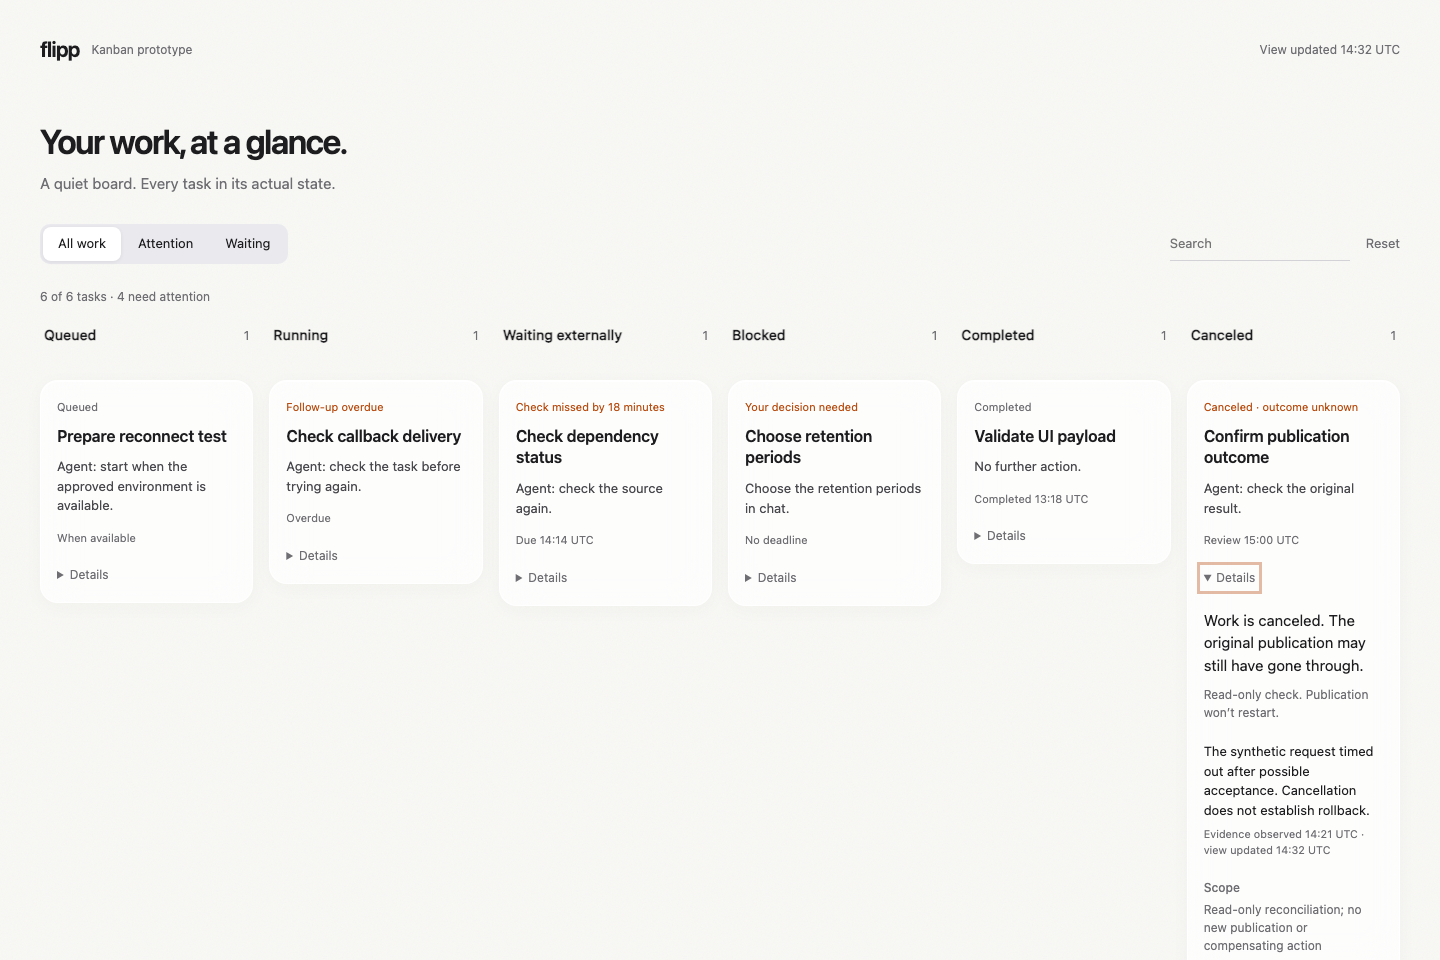
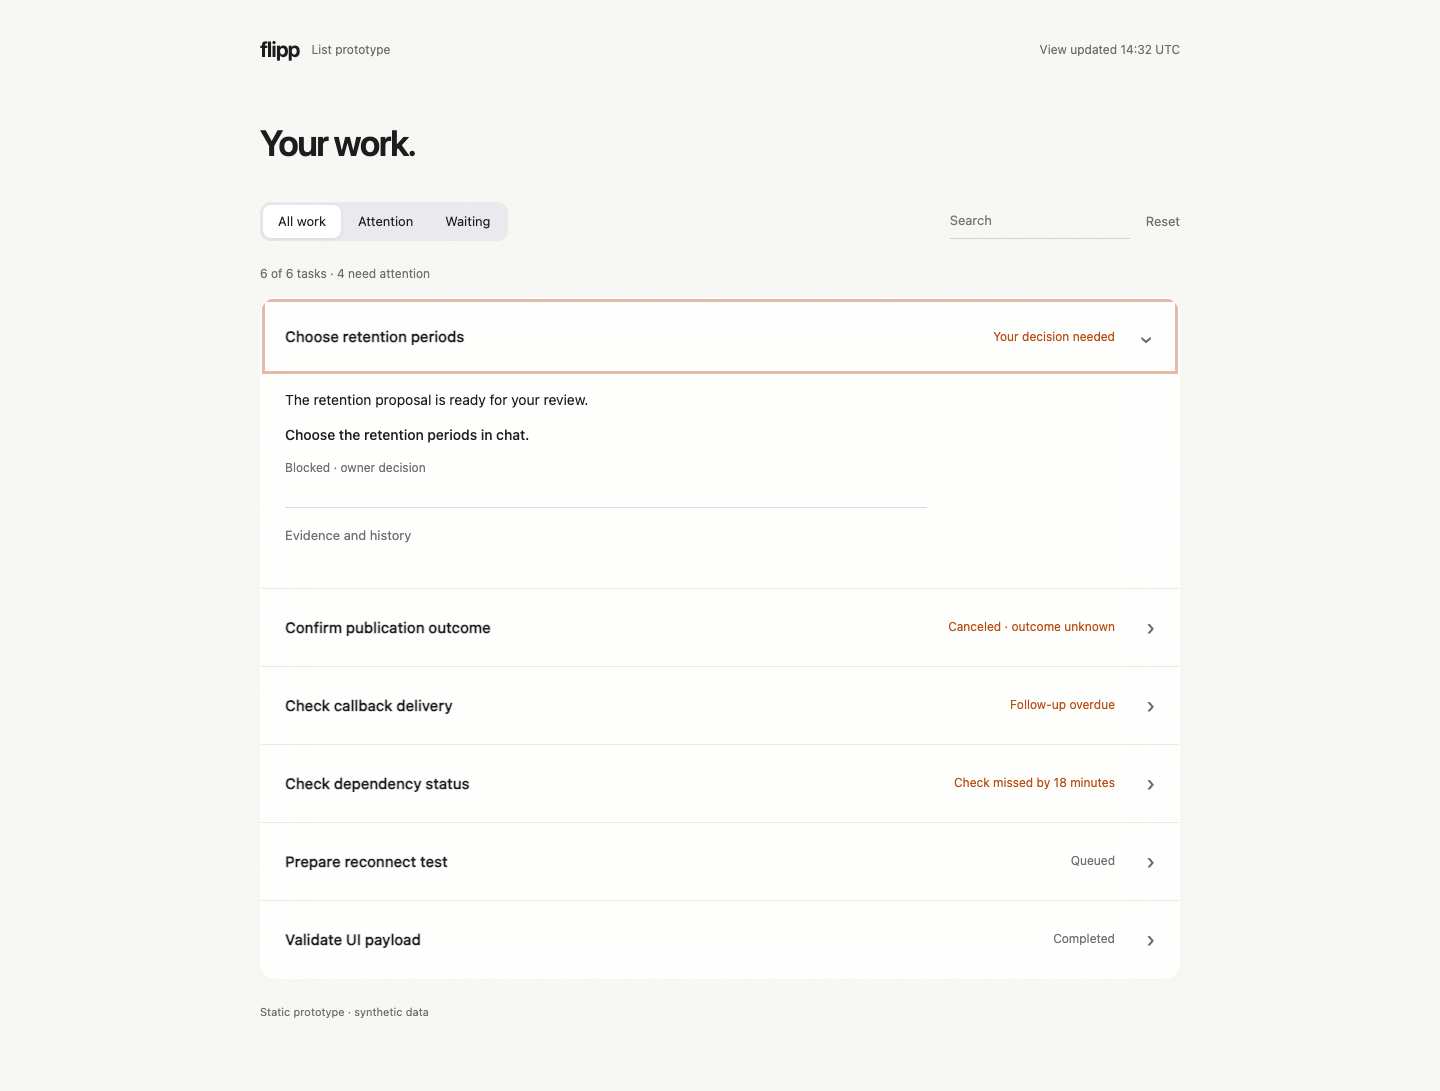
Make the human work view a compact expandable list

diff --git a/mockups/app.js b/mockups/app.js
@@ -31,16 +31,9 @@ function renderDetail(task){
 function render(){
  const visible=visibleTasks();if(!visible.some(t=>t.id===selectedId))selectedId=visible[0]?.id;
   if(document.body.dataset.variant==="a"){
-    const states=["Queued","Running","Waiting externally","Blocked","Completed","Canceled"];
-    const slug=state=>state.toLowerCase().replaceAll(" ","-");
-    const card=task=>{
+    list.innerHTML=visible.map(task=>{
       const c=copy[task.id];
-      const times={task_synth_104:"Overdue",task_synth_103:"No deadline",task_synth_101:"Due 14:14",task_synth_107:"Review 15:00",task_synth_105:"When available",task_synth_099:"Completed 13:18"};
-      return `<li class="action-card"><div class="card-top"><span class="task-status ${c.lens==="attention"?"attention":""}">${escape(c.status)}</span></div><h3>${escape(c.title)}</h3><p class="card-next">${escape(c.next)}</p><p class="card-time">${times[task.id]}${times[task.id].match(/[0-9]/)?" UTC":""}</p><details class="card-disclosure"><summary>Details<span class="sr-only"> for ${escape(c.title)}</span></summary><p class="card-update">${escape(c.update)}</p><p class="human-note">${escape(c.note)}</p><div class="evidence">${escape(task.evidence)}<small>Evidence observed ${escape(task.observedAt)} · view updated 14:32 UTC</small></div><p class="card-scope"><strong>Scope</strong> ${escape(task.scope)}</p><ol class="history" aria-label="Task history">${task.chronology.map(entry=>`<li><time>${escape(entry[0])}</time><div>${escape(entry[1])}<small>${escape(entry[2])}</small></div></li>`).join("")}</ol></details></li>`;
-    };
-    list.innerHTML=states.map(state=>{
-      const members=visible.filter(task=>task.state===state);
-      return `<section class="board-column" id="column-${slug(state)}" aria-labelledby="heading-${slug(state)}"><div class="column-heading"><h2 id="heading-${slug(state)}" tabindex="-1">${state}</h2><span aria-label="${members.length} tasks">${members.length}</span></div><ol class="column-cards">${members.map(card).join("")}</ol>${members.length?"":'<p class="column-empty">No tasks in this view</p>'}</section>`;
+      return `<li class="ledger-row"><details><summary><span class="ledger-title">${escape(c.title)}</span><span class="task-status ${c.lens==="attention"?"attention":""}">${escape(c.status)}</span><span class="ledger-chevron" aria-hidden="true">›</span></summary><div class="ledger-detail"><p>${escape(c.update)}</p><p class="ledger-next">${escape(c.next)}</p><p class="human-note">${escape(c.note)}</p><details class="disclosure"><summary>Evidence and history</summary><p class="evidence">${escape(task.evidence)}<small>Observed ${escape(task.observedAt)} · view updated 14:32 UTC</small></p><p>Scope: ${escape(task.scope)}</p><ol class="history">${task.chronology.map(entry=>`<li><time>${escape(entry[0])}</time><div>${escape(entry[1])}<small>${escape(entry[2])}</small></div></li>`).join("")}</ol></details></div></details></li>`;
     }).join("");
     document.querySelector("#empty").hidden=visible.length>0;
     document.querySelector("#active-scope").textContent=`${visible.length} of ${tasks.length} tasks · ${visible.filter(task=>copy[task.id].lens==="attention").length} need attention${search.value.trim()?" · search results":""}`;

diff --git a/mockups/styles.css b/mockups/styles.css
@@ -41,3 +41,6 @@ body[data-variant=a]{background-color:#f8f8f5;background-image:url("texture.svg"
 .card-scope strong{font-weight:500;display:block;margin-bottom:4px}
 .card-disclosure .human-note{margin-bottom:18px}
 @media(max-width:760px){header{padding:24px 22px 8px}.brand{font-size:20px}.freshness{font-size:11px}.prototype-label{display:none}.shell{padding:28px 22px 40px}.intro h1{font-size:32px}.intro p{font-size:14px}.toolbar{gap:10px}.segments{width:100%;justify-content:space-between}.segments button{flex:1;padding:8px 6px}.search{margin-left:0;flex:1}.layout,.focus-view .layout{grid-template-columns:1fr;gap:24px}.detail{padding:12px 2px;scroll-margin-top:20px}.focus-view .detail{padding:26px 22px}.detail h2,.focus-view .detail h2{font-size:26px}.focus-view .update{font-size:17px}.facts div{grid-template-columns:95px 1fr}.history li{grid-template-columns:70px 1fr}.human-note{margin-bottom:22px}.action-grid{grid-template-columns:1fr;gap:14px}.action-card{padding:22px}.card-next{min-height:0}}
+
+/* The human surface is a continuous list; full records stay behind disclosure. */
+.ledger-view header,.ledger-view .shell{max-width:1000px}.ledger-view .intro{margin-bottom:32px}.ledger-view .intro h1{font-size:36px}.minimal-ledger{list-style:none;margin:0;padding:0;border-radius:16px;background:rgba(255,255,255,.82);border:1px solid #fff;overflow:hidden;backdrop-filter:blur(18px)}.ledger-row+.ledger-row{border-top:1px solid #e8e8e5}.ledger-row>details>summary{list-style:none;cursor:pointer;display:grid;grid-template-columns:minmax(0,1fr) auto 16px;gap:24px;align-items:center;padding:22px 24px;min-height:72px}.ledger-row summary::-webkit-details-marker{display:none}.ledger-title{font-size:15px;font-weight:550}.ledger-row .task-status{margin:0;font-size:12px}.ledger-chevron{font-size:22px;color:#6e6e73;text-align:right}.ledger-row>details[open]>summary .ledger-chevron{transform:rotate(90deg)}.ledger-detail{padding:0 24px 24px;max-width:690px}.ledger-detail p{font-size:14px}.ledger-detail .human-note{font-size:12px}.ledger-next{font-weight:500}.ledger-detail .disclosure>summary{display:block}.ledger-view .board-context{margin-bottom:14px}.ledger-view .card-count{font-size:12px}.ledger-row summary:focus-visible{outline-offset:-4px}@media(max-width:760px){.ledger-row>details>summary{padding:20px 18px;grid-template-columns:minmax(0,1fr) 16px;gap:5px 12px}.ledger-title{grid-column:1;line-height:1.4}.ledger-row .task-status{grid-column:1}.ledger-chevron{grid-column:2;grid-row:1/3}.ledger-detail{padding:0 18px 20px}.ledger-view .intro h1{font-size:30px}}@media(prefers-reduced-transparency:reduce){.minimal-ledger{background:white;backdrop-filter:none}}

diff --git a/mockups/variant-a-ledger.html b/mockups/variant-a-ledger.html
@@ -1,11 +1,11 @@
 <!doctype html>
 <html lang="en">
 <head><meta charset="utf-8"><meta name="viewport" content="width=device-width, initial-scale=1"><title>flipp — Work board</title><link rel="stylesheet" href="styles.css"></head>
-<body data-variant="a" class="kanban-view">
-<header><span class="brand">flipp</span><span class="prototype-label">Kanban prototype</span><span class="freshness">View updated 14:32 UTC</span></header>
-<main class="shell"><div class="intro"><h1>Your work, at a glance.</h1><p>A quiet board. Every task in its actual state.</p></div>
+<body data-variant="a" class="ledger-view">
+<header><span class="brand">flipp</span><span class="prototype-label">List prototype</span><span class="freshness">View updated 14:32 UTC</span></header>
+<main class="shell"><div class="intro"><h1>Your work.</h1></div>
 <section class="toolbar" aria-label="Work filters"><div class="segments" aria-label="View"><button type="button" data-lens="all">All work</button><button type="button" data-lens="attention">Attention</button><button type="button" data-lens="waiting">Waiting</button></div><label class="sr-only" for="search">Search tasks</label><input class="search" id="search" type="search" placeholder="Search" autocomplete="off"><button class="reset" id="reset" type="button">Reset</button></section>
-<div class="board-context"><span class="card-count" id="active-scope" aria-live="polite"></span><label class="mobile-jump">Jump to <select id="state-jump"><option value="">Choose state</option><option value="queued">Queued</option><option value="running">Running</option><option value="waiting-externally">Waiting externally</option><option value="blocked">Blocked</option><option value="completed">Completed</option><option value="canceled">Canceled</option></select></label></div>
-<section class="kanban-board" id="task-list" aria-label="Work by canonical state"></section><p class="empty" id="empty" hidden>No matches. Try another view or reset.</p>
+<div class="board-context"><span class="card-count" id="active-scope" aria-live="polite"></span></div>
+<ol class="minimal-ledger" id="task-list" aria-label="Work list"></ol><p class="empty" id="empty" hidden>No matches. Try another view or reset.</p>
 <p class="footer-note">Static prototype · synthetic data</p></main><script src="data.js"></script><script src="app.js"></script>
 </body></html>

diff --git a/README.md b/README.md
@@ -16,21 +16,21 @@ The owner should not need to inspect leases, revision numbers, receipts, or an a
 
 ## A quiet view of the work
 
-The chosen direction is a minimalist kanban board with Apple-inspired textured white styling and restrained frosted-glass cards. Six columns use the actual ledger states. Each card shows a title, status, next step, and relevant time; Details expands explanation and evidence. Blocked and Canceled remain separate, with uncertainty visible before expansion. The earlier continuous-list design is superseded.
+The chosen direction is a compact, continuous list with Apple-inspired restraint. Each row shows only the task title and a meaningful status. Opening a row reveals its update and next step; evidence and history sit behind a second disclosure. Canceled work and uncertain outcomes remain explicit. The full agent contract stays separate from the human surface.
 
 **Desktop · synthetic design reference**
 
-![flipp textured-white kanban desktop prototype](https://raw.githubusercontent.com/ptw1255/flipp-work-ledger/930ae7933b9ba5cea8da73a36b33288cee333b16/mockups/screenshots/variant-a-desktop.png)
+![flipp textured-white list desktop prototype](https://raw.githubusercontent.com/ptw1255/flipp-work-ledger/930ae7933b9ba5cea8da73a36b33288cee333b16/mockups/screenshots/variant-a-desktop.png)
 
 <details>
 <summary>Mobile preview</summary>
 
 <p>Canonical columns stack in the same order, with a state jump and Details expanding within each card. Synthetic data only.</p>
-<img src="https://raw.githubusercontent.com/ptw1255/flipp-work-ledger/930ae7933b9ba5cea8da73a36b33288cee333b16/mockups/screenshots/variant-a-mobile.png" width="390" alt="Mobile kanban prototype with stacked state columns, state jump, and card Details">
+<img src="https://raw.githubusercontent.com/ptw1255/flipp-work-ledger/930ae7933b9ba5cea8da73a36b33288cee333b16/mockups/screenshots/variant-a-mobile.png" width="390" alt="Compact mobile task list with expandable details">
 
 </details>
 
-These are static interactive mockups, not a live product or verified A2UI integration. The pinned iteration is the implementation reference; future design revisions remain reviewable. [Open kanban source](mockups/variant-a-ledger.html) · [Expanded mobile Details](mockups/screenshots/variant-a-mobile-detail.png) · [Visual acceptance criteria](docs/IMPLEMENTATION_PLAN.md#pinned-visual-reference). Variant B is retained for comparison. The board has no drag/drop state changes or action buttons; decisions stay coordinated in chat. Reduced transparency uses solid-white cards.
+These are static interactive mockups, not a live product or verified A2UI integration. The pinned iteration is the implementation reference; future design revisions remain reviewable. [Open list source](mockups/variant-a-ledger.html) · [Expanded mobile Details](mockups/screenshots/variant-a-mobile-detail.png) · [Visual acceptance criteria](docs/IMPLEMENTATION_PLAN.md#pinned-visual-reference). Variant B is retained for comparison. The list has no state-changing controls; decisions stay coordinated in chat. Reduced transparency uses a solid-white surface.
 
 ## What the MVP is designed to do
 

diff --git a/mockups/README.md b/mockups/README.md
@@ -2,7 +2,7 @@
 
 These static prototypes compare two read-only interface directions using the same synthetic task data:
 
-- [Variant A: kanban board](variant-a-ledger.html) — the selected direction: six canonical state columns with textured-white styling and restrained frosted-glass cards. Details expands explanation and evidence.
+- [Variant A: compact list](variant-a-ledger.html) — selected direction: one continuous list, title and status per row, with native expandable updates and deeper evidence. Agent records remain separate.
 - [Variant B: attention](variant-b-attention.html) — a comparison direction with a short queue and selected update.
 
 The human surface shows only the information needed to understand work and its next step. [The synthetic agent payload example](agent-payload.example.json) retains coordination fields for an authorized agent query. Hidden UI is not access control: a real implementation must keep that payload server-side and enforce owner-scoped authorization.

diff --git a/mockups/LIST_REVIEW.md b/mockups/LIST_REVIEW.md
@@ -1,0 +1,5 @@
+# Compact list revision
+
+The current human surface is a continuous list rather than a card grid or kanban board. Rows show title and status. Updates and next steps appear only when expanded; evidence and history require a second disclosure. Canonical states, cancellation uncertainty, synthetic evidence, and the separate agent payload are preserved.
+
+Verified in Chromium at 1440 × 960 and 390 × 844: six rows, closed defaults, keyboard Enter disclosure, no horizontal overflow, search empty state, and reset. Desktop and mobile screenshots were rendered. This is a static prototype; backend and live A2UI gates remain NOT RUN. Earlier kanban acceptance evidence is historical and does not validate this revision.
